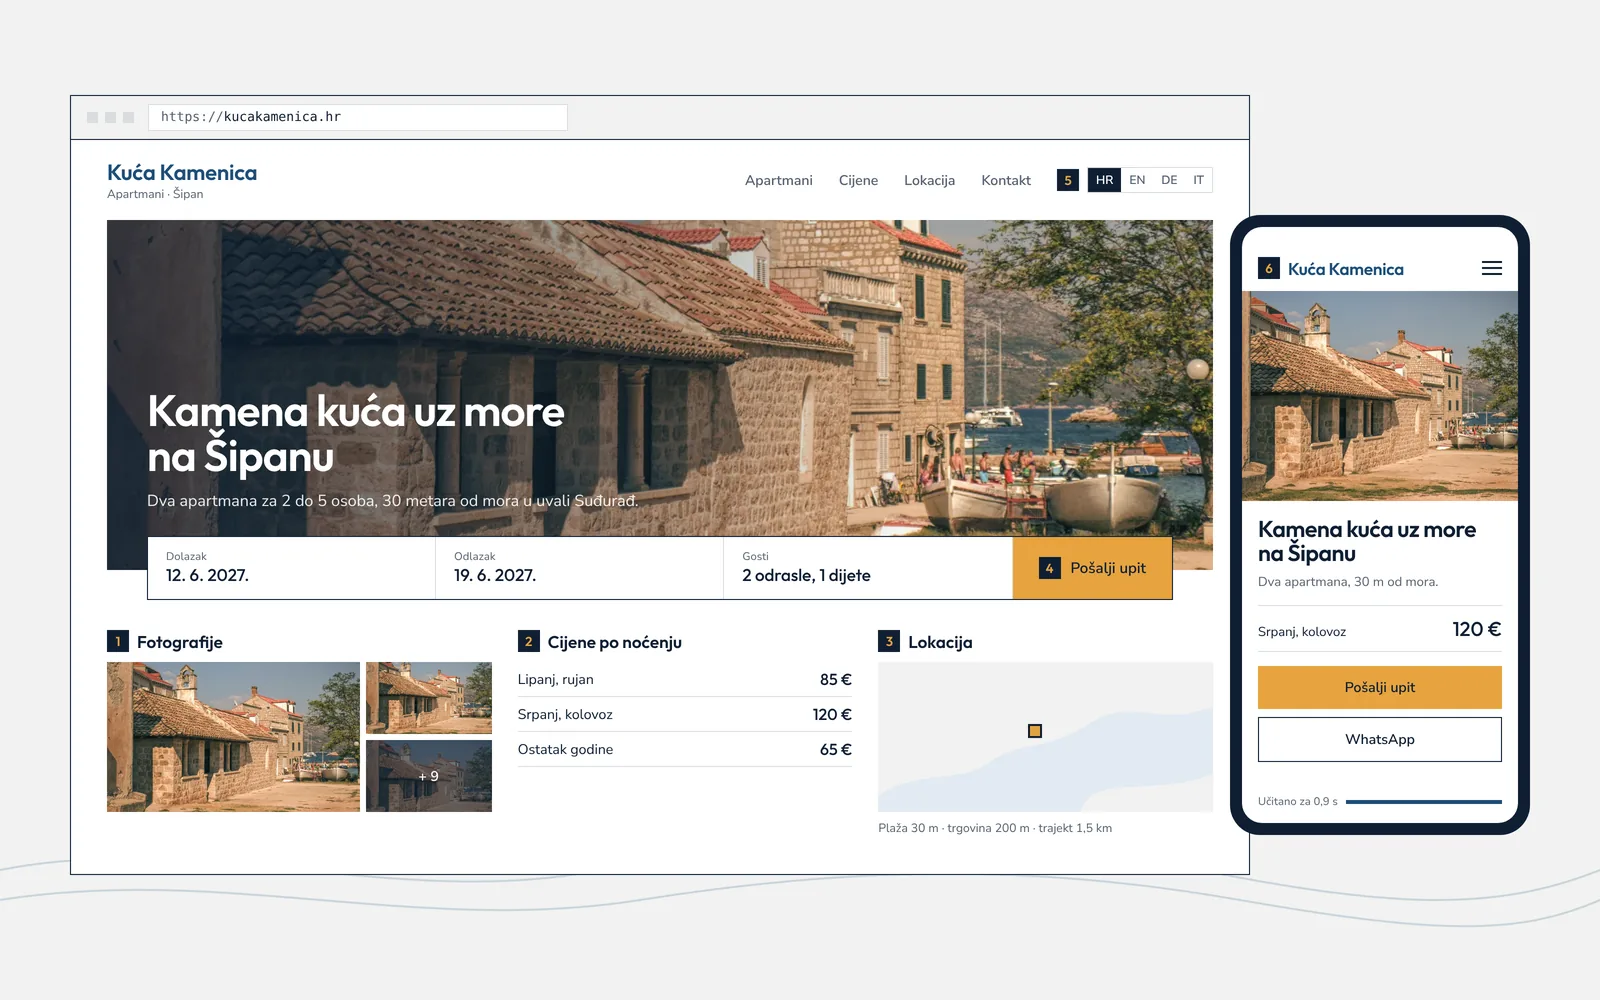
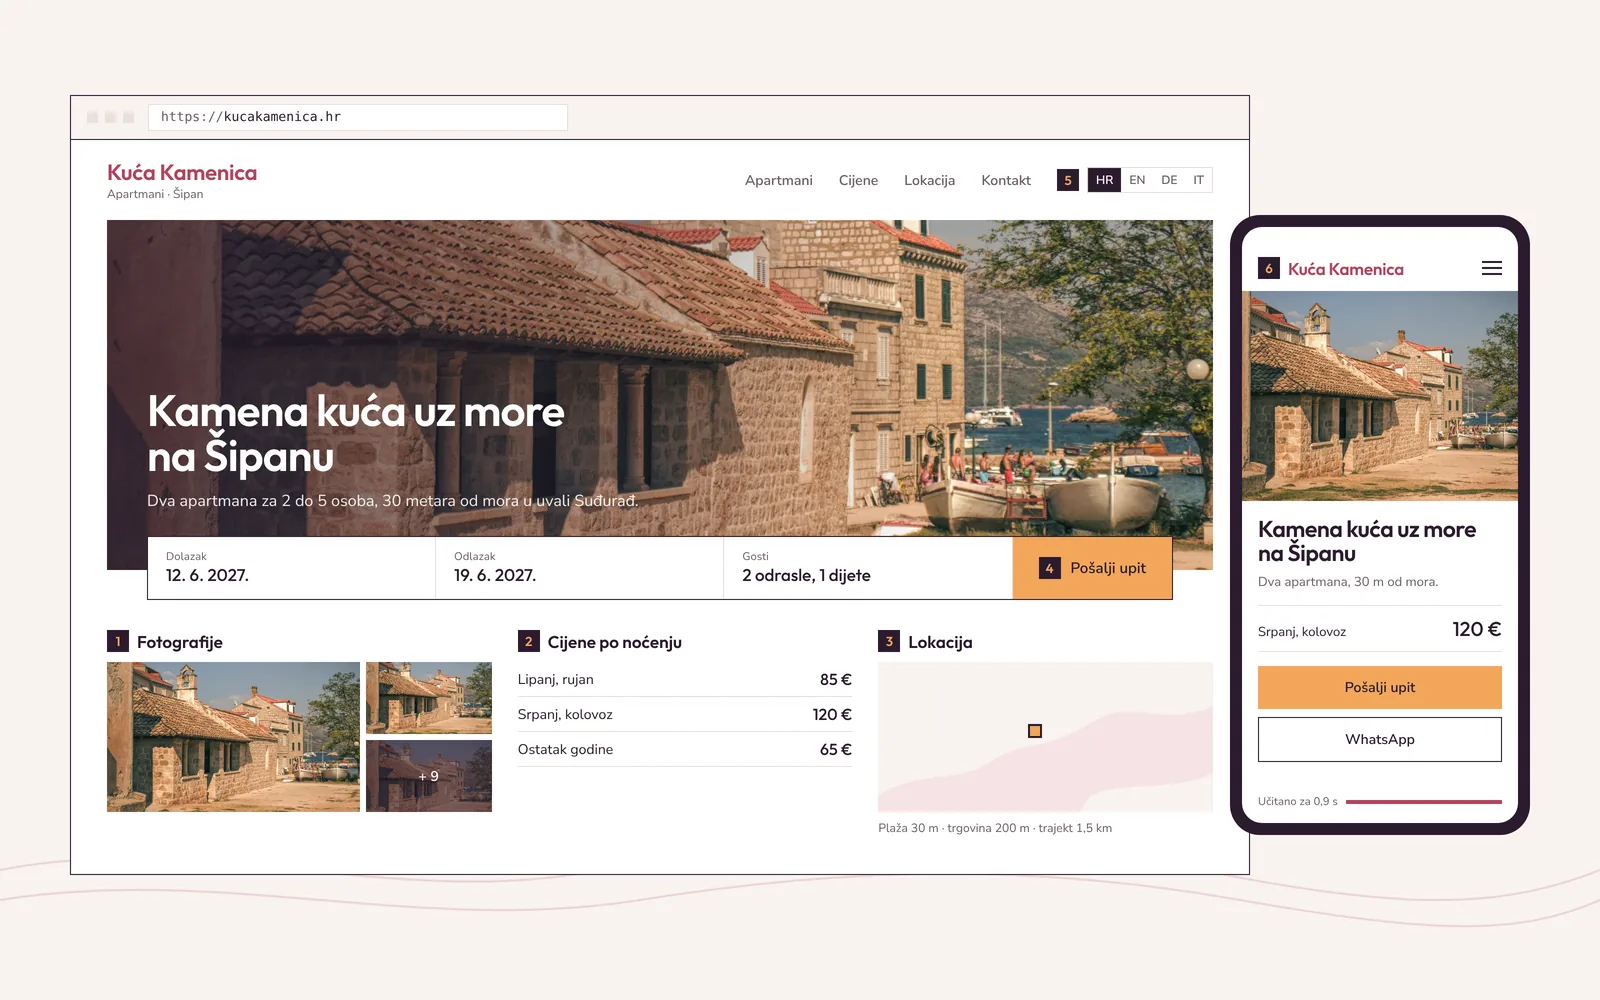
Nova paleta: Zalazak (šljiva, koralj, narančasto sunce)
Claude-Session: https://claude.ai/code/session_01FHJfSARKVYMcjQ38sG6uXT

diff --git a/src/styles/global.css b/src/styles/global.css
@@ -66,11 +66,11 @@
   src: url(/fonts/outfit-latin.woff2) format('woff2');
   unicode-range: U+0000-00FF, U+0131, U+0152-0153, U+02BB-02BC, U+02C6, U+02DA, U+02DC, U+0304, U+0308, U+0329, U+2000-206F, U+20AC, U+2122, U+2191, U+2193, U+2212, U+2215, U+FEFF, U+FFFD;
 }
-/* idassa.digital — Kamen i more
+/* idassa.digital — Zalazak (tamna šljiva, koralj, narančasto sunce)
    Layout: calm left-aligned column, "browser window" hero; gold sun used only for the logo dot and key actions. */
 :root{
-  --bg:#F1F2F1; --surface:#FFFFFF; --ink:#0F1F33; --muted:#566373; --line:#D9DDDF;
-  --sun:#E7A33E; --on-sun:#0F1F33; --sea:#1D4E79; --sea-soft:#E1EAF2;
+  --bg:#F8F3F0; --surface:#FFFFFF; --ink:#2B1B2E; --muted:#6E5E66; --line:#EADFDA;
+  --sun:#F2A65A; --on-sun:#2B1B2E; --sea:#B4435A; --sea-soft:#F6E3E5;
   --display:"Outfit","Avenir Next",system-ui,sans-serif;
   --body:"Nunito Sans","Segoe UI",system-ui,sans-serif;
   --mono:ui-monospace,"SF Mono",Menlo,Consolas,monospace;
@@ -296,7 +296,7 @@ nav a[aria-current="page"]{color:var(--ink)}
 .prose > * + *{margin-top:18px}
 .prose h2{font-size:clamp(24px,3vw,30px);margin-top:44px}
 .prose h3{font-size:21px;margin-top:32px}
-.prose p,.prose li{color:#33404F}
+.prose p,.prose li{color:#43333F}
 .prose strong{color:var(--ink)}
 .prose ul,.prose ol{padding-left:22px}
 .prose li + li{margin-top:8px}
